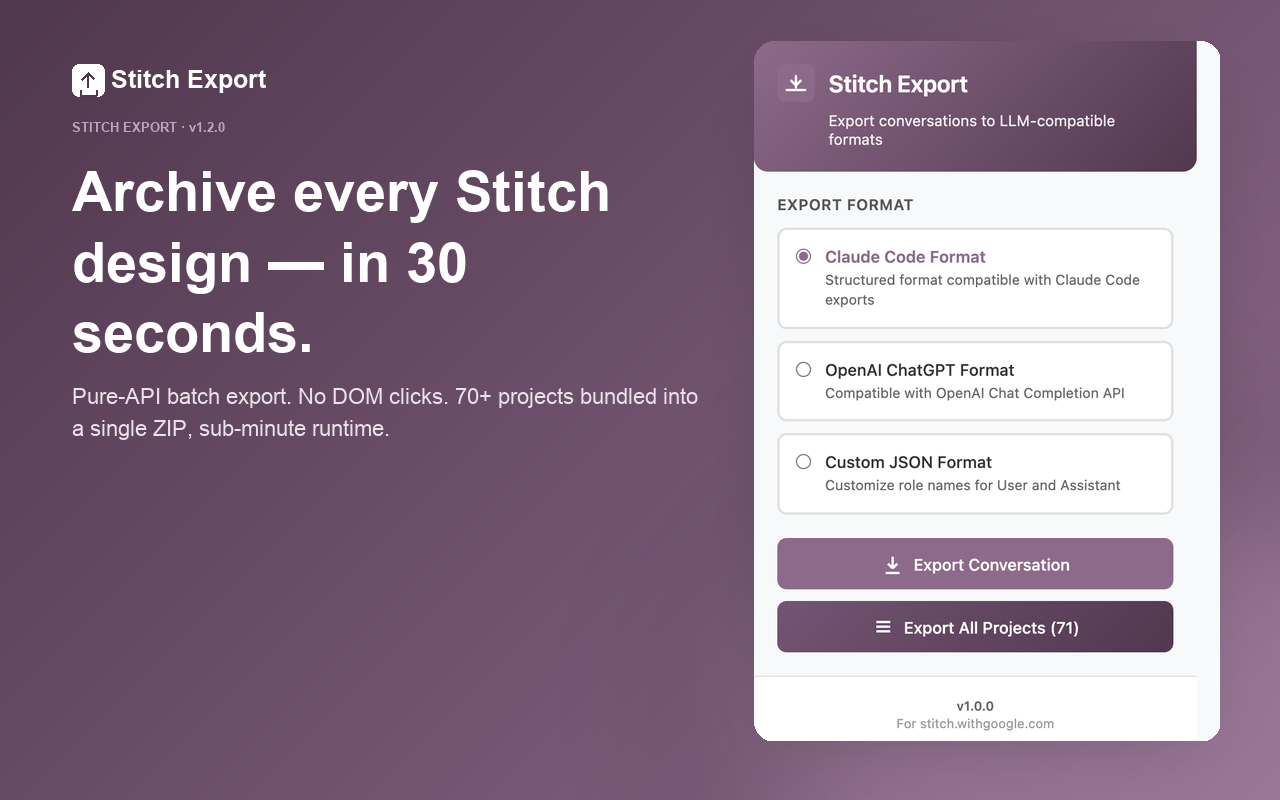
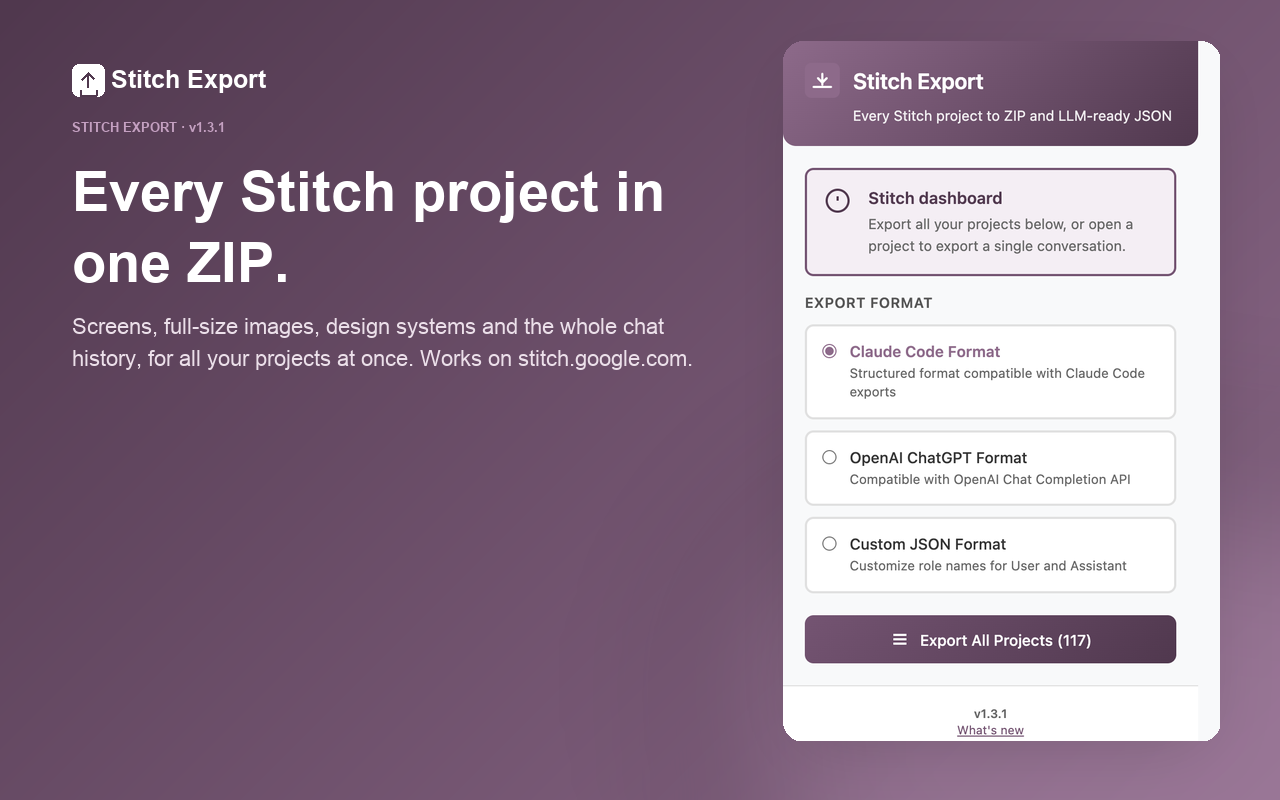
docs(store): fresh screenshots of the 1.3.1 popup; clearer popup subtitle
- capture-puppeteer.js drives the real popup functions (dashboard, project,
  live progress steps 1-3, success, what's new, not on Stitch, custom format)
  and uses the installed Chrome when puppeteer has no bundled browser.
- Store tiles and promos regenerated with the current UI and copy; obsolete
  1.2.0 images removed; README images refreshed.
- Popup subtitle: Every Stitch project to ZIP and LLM-ready JSON.
- Marquee CTA chip rendered white-on-white; now filled.

diff --git a/screenshots/capture-puppeteer.js b/screenshots/capture-puppeteer.js
@@ -18,125 +18,134 @@ const POPUP_HTML = path.join(REPO_ROOT, 'popup', 'popup.html');
 
 /** Stub script injected before popup.js so it doesn't crash on chrome.* APIs. */
 const chromeStub = `
+  // The tab the popup "sees"; each capture sets it before the popup initialises
+  window.__tabUrl = window.__tabUrl || 'https://stitch.google.com/';
+  try { localStorage.setItem('whatsNewSeen', '1.3.1'); } catch (e) {}
   window.chrome = {
     runtime: {
       onMessage: { addListener: () => {} },
       sendMessage: (msg, cb) => {
-        // Default stubs for messages the popup sends on load
-        if (msg && msg.action === 'getBatchExportState') {
-          const r = { isRunning: false, total: 0, current: 0 };
-          if (cb) cb(r); return Promise.resolve(r);
-        }
-        if (msg && msg.action === 'getProjectCount') {
-          const r = { count: 71, cached: true };
-          if (cb) cb(r); return Promise.resolve(r);
-        }
-        if (cb) cb({});
-        return Promise.resolve({});
+        let r = {};
+        if (msg && msg.action === 'getBatchExportState') r = { isRunning: false, total: 0, current: 0 };
+        if (msg && msg.action === 'getProjectCount') r = { count: 117, cached: true };
+        if (cb) cb(r);
+        return Promise.resolve(r);
       },
       getURL: (p) => 'chrome-extension://stub/' + p,
+      getManifest: () => ({ version: '1.3.1' }),
+      requestUpdateCheck: () => Promise.resolve({ status: 'no_update' }),
       lastError: null
     },
     tabs: {
       query: (q, cb) => {
-        const r = [{ id: 1, url: 'https://stitch.withgoogle.com/projects/123', active: true }];
+        const r = [{ id: 1, windowId: 1, url: window.__tabUrl, active: true }];
         if (cb) cb(r); return Promise.resolve(r);
       },
       sendMessage: (id, msg, cb) => { if (cb) cb({}); return Promise.resolve({}); },
-      create: () => Promise.resolve({})
+      create: () => Promise.resolve({}),
+      update: () => Promise.resolve({})
     },
-    scripting: {
-      executeScript: () => Promise.resolve([{ result: { success: false } }])
-    },
+    windows: { update: () => Promise.resolve({}) },
+    scripting: { executeScript: () => Promise.resolve([{ result: { success: false } }]) },
     downloads: { download: () => Promise.resolve(1) }
   };
 `;
 
+const DASHBOARD = 'https://stitch.google.com/';
+const PROJECT = 'https://stitch.google.com/projects/6218260846420484087';
+
+// Each capture: which tab the popup believes it is on, then drive the real popup functions
 const captures = [
   {
-    file: '01-popup-ready-on-stitch.png',
+    file: '01-popup-dashboard.png',
+    url: DASHBOARD,
     setup: async (page) => {
-      // popup.js auto-detects state; force "ready"
       await page.evaluate(() => {
-        document.querySelectorAll('.state').forEach(e => e.classList.add('hidden'));
-        document.getElementById('readyState').classList.remove('hidden');
+        setState(AppState.NOT_ON_STITCH);
+        document.querySelectorAll('.export-all-label').forEach(el => { el.textContent = 'Export All Projects (117)'; });
       });
     }
   },
   {
-    file: '02-popup-custom-format.png',
+    file: '02-popup-project.png',
+    url: PROJECT,
     setup: async (page) => {
       await page.evaluate(() => {
-        document.querySelectorAll('.state').forEach(e => e.classList.add('hidden'));
-        document.getElementById('readyState').classList.remove('hidden');
-        const cs = document.getElementById('customSettings');
-        if (cs) cs.classList.remove('hidden');
-        const customRadio = document.querySelector('input[name="format"][value="custom"]');
-        const claudeRadio = document.querySelector('input[name="format"][value="claude"]');
-        if (claudeRadio) claudeRadio.checked = false;
-        if (customRadio) customRadio.checked = true;
+        setState(AppState.READY);
+        document.querySelectorAll('.export-all-label').forEach(el => { el.textContent = 'Export All Projects (117)'; });
       });
     }
   },
   {
-    file: '03-popup-not-on-stitch.png',
+    file: '03-popup-progress-reading.png',
+    url: DASHBOARD,
     setup: async (page) => {
       await page.evaluate(() => {
-        document.querySelectorAll('.state').forEach(e => e.classList.add('hidden'));
-        document.getElementById('notOnStitchState').classList.remove('hidden');
+        setState(AppState.BATCH_EXPORT);
+        startElapsedClock(Date.now() - 42000);
+        updateBatchProgressUI(71, 117, 'Step 1/3 · Reading projects 71/117: Vagora K19 Milano');
       });
     }
   },
   {
-    file: '04-popup-batch-progress.png',
+    file: '04-popup-progress-opening.png',
+    url: DASHBOARD,
     setup: async (page) => {
       await page.evaluate(() => {
-        document.querySelectorAll('.state').forEach(e => e.classList.add('hidden'));
-        document.getElementById('batchExportState').classList.remove('hidden');
-        const bar = document.getElementById('batchProgressBar');
-        if (bar) bar.style.width = '48%';
-        const txt = document.getElementById('batchProgressText');
-        if (txt) txt.textContent = 'Downloaded 34/71: Xporter Dashboard Command Center (6 files)';
-        const count = document.getElementById('batchProgressCount');
-        if (count) count.textContent = '34 / 71 projects';
+        setState(AppState.BATCH_EXPORT);
+        startElapsedClock(Date.now() - 95000);
+        updateBatchProgressUI(1, 3, 'Step 2/3 · 3 project(s) had not been opened in Stitch for a while. Opening them one by one in a background tab and reading only those again: "Carleria C9" (2/3)...');
       });
     }
   },
   {
-    file: '05-popup-success.png',
+    file: '05-popup-progress-downloading.png',
+    url: DASHBOARD,
     setup: async (page) => {
       await page.evaluate(() => {
-        document.querySelectorAll('.state').forEach(e => e.classList.add('hidden'));
-        document.getElementById('successState').classList.remove('hidden');
-        const msg = document.getElementById('successMessage');
-        if (msg) msg.textContent = 'Successfully exported 71/71 projects to ZIP!';
+        setState(AppState.BATCH_EXPORT);
+        startElapsedClock(Date.now() - 128000);
+        updateBatchProgressUI(88, 117, 'Step 3/3 · Downloading screen files 88/117: IAP kit · Toybox clay (37 files)');
       });
     }
   },
   {
-    file: '06-popup-error.png',
+    file: '06-popup-success.png',
+    url: DASHBOARD,
     setup: async (page) => {
       await page.evaluate(() => {
-        document.querySelectorAll('.state').forEach(e => e.classList.add('hidden'));
-        document.getElementById('errorState').classList.remove('hidden');
-        const msg = document.getElementById('errorMessage');
-        if (msg) msg.textContent = 'No conversation data found. Make sure you are on a Stitch project page with messages.';
+        setState(AppState.SUCCESS);
+        updateSuccessMessage('Successfully exported 117/117 projects to ZIP!');
       });
     }
   },
   {
-    file: '07-popup-loading-counting.png',
+    file: '07-popup-whats-new.png',
+    url: DASHBOARD,
     setup: async (page) => {
-      // Show "counting projects…" inline loading state
       await page.evaluate(() => {
-        document.querySelectorAll('.state').forEach(e => e.classList.add('hidden'));
-        document.getElementById('readyState').classList.remove('hidden');
-        document.querySelectorAll('.export-all-label').forEach(el => {
-          el.classList.add('is-loading');
-        });
-        document.querySelectorAll('.export-all-hint').forEach(el => {
-          el.classList.remove('hidden');
-        });
+        setState(AppState.NOT_ON_STITCH);
+        document.querySelectorAll('.export-all-label').forEach(el => { el.textContent = 'Export All Projects (117)'; });
+        renderWhatsNew();
+      });
+    }
+  },
+  {
+    file: '08-popup-not-on-stitch.png',
+    url: 'https://www.google.com/',
+    setup: async (page) => {
+      await page.evaluate(() => setState(AppState.NOT_ON_STITCH));
+    }
+  },
+  {
+    file: '09-popup-custom-format.png',
+    url: PROJECT,
+    setup: async (page) => {
+      await page.evaluate(() => {
+        setState(AppState.READY);
+        const custom = document.querySelector('input[name="format"][value="custom"]');
+        if (custom) { custom.checked = true; custom.dispatchEvent(new Event('change', { bubbles: true })); }
+        document.getElementById('customSettings')?.classList.remove('hidden');
       });
     }
   }
@@ -147,7 +156,7 @@ async function main() {
   let html = fs.readFileSync(POPUP_HTML, 'utf8');
   const stubTag = `<script>${chromeStub}</script>\n  `;
   // Insert stub right before the popup.js script tag
-  html = html.replace(/<script src="popup\.js"><\/script>/, stubTag + '<script src="popup.js"></script>');
+  html = html.replace('<script src="../utils/remote-config.js"></script>', stubTag + '<script src="../utils/remote-config.js"></script>');
 
   // Write temp HTML alongside popup so relative paths resolve
   const tempHtml = path.join(REPO_ROOT, 'popup', '_capture.html');
@@ -155,16 +164,20 @@ async function main() {
 
   const browser = await puppeteer.launch({
     headless: 'new',
+    // Use the installed Chrome when puppeteer has no bundled browser (PUPPETEER_EXECUTABLE_PATH overrides)
+    executablePath: process.env.PUPPETEER_EXECUTABLE_PATH ||
+      (fs.existsSync('/Applications/Google Chrome.app/Contents/MacOS/Google Chrome') ? '/Applications/Google Chrome.app/Contents/MacOS/Google Chrome' : undefined),
     args: ['--no-sandbox', '--disable-setuid-sandbox']
   });
 
   try {
     for (const c of captures) {
       const page = await browser.newPage();
-      await page.setViewport({ width: 400, height: 600, deviceScaleFactor: 2 });
+      await page.setViewport({ width: 400, height: 640, deviceScaleFactor: 2 });
+      await page.evaluateOnNewDocument((u) => { window.__tabUrl = u; }, c.url);
       await page.goto('file://' + tempHtml, { waitUntil: 'domcontentloaded' });
-      // Give popup.js a moment to run initialize() and stubs to respond
-      await new Promise(r => setTimeout(r, 350));
+      // Let initialize() finish (remote-config check included) before forcing a state
+      await new Promise(r => setTimeout(r, 2500));
       // Force the desired state
       await c.setup(page);
       // Settle layout

diff --git a/popup/popup.html b/popup/popup.html
@@ -18,7 +18,7 @@
         </svg>
         <h1>Stitch Export</h1>
       </div>
-      <p class="subtitle">Export conversations to LLM-compatible formats</p>
+      <p class="subtitle">Every Stitch project to ZIP and LLM-ready JSON</p>
     </header>
 
     <main id="mainContent">

diff --git a/screenshots/gen-store-assets.py b/screenshots/gen-store-assets.py
@@ -168,7 +168,7 @@ def wrap_text(text, font, max_width):
     return lines
 
 
-def compose_screenshot(out_path, headline, body, popup_file, eyebrow="STITCH EXPORT v1.2.0"):
+def compose_screenshot(out_path, headline, body, popup_file, eyebrow="STITCH EXPORT v1.3.1"):
     """1280x800 marketing screenshot — left text, right popup with shadow."""
     W, H = 1280, 800
     bg = gradient(W, H, DEEP, MAUVE, vertical=False)
@@ -259,7 +259,7 @@ def compose_small_promo(out_path):
     draw.text((32, headline_y), headline, font=f_h, fill=WHITE)
 
     body_y = headline_y + 44
-    body = "Batch export + chat history + per-turn refs"
+    body = "Screens, images, design systems + chat"
     draw.text((32, body_y), body, font=f_b, fill=WHITE_DIM)
 
     # Bottom rib
@@ -289,10 +289,10 @@ def compose_marquee(out_path, popup_file):
     draw_wordmark(draw, pad_x, 64, scale=1.0)
 
     f_eye = font(14, bold=True)
-    draw.text((pad_x, 64 + 60), "CHROME EXTENSION · v1.2.0", font=f_eye, fill=MAUVE_LIGHT)
+    draw.text((pad_x, 64 + 60), "CHROME EXTENSION · v1.3.1", font=f_eye, fill=MAUVE_LIGHT)
 
     f_h = font(64, bold=True)
-    headline_lines = ["Archive every Stitch design", "in 30 seconds."]
+    headline_lines = ["Every Stitch project,", "in one ZIP."]
     y = 64 + 100
     for line in headline_lines:
         draw.text((pad_x, y), line, font=f_h, fill=WHITE)
@@ -300,7 +300,7 @@ def compose_marquee(out_path, popup_file):
         y += (bbox[3] - bbox[1]) + 16
 
     f_b = font(20)
-    body = "Pure-API batch export · per-turn chat history · toolbar count badge"
+    body = "Screens · full-size images · design systems · chat history · Claude & ChatGPT JSON"
     draw.text((pad_x, y + 12), body, font=f_b, fill=WHITE_DIM)
 
     # CTA chip
@@ -313,7 +313,7 @@ def compose_marquee(out_path, popup_file):
     draw.rounded_rectangle(
         (pad_x, chip_y, pad_x + chip_w, chip_y + chip_h),
         radius=22,
-        fill=(255, 255, 255, 30),
+        fill=DEEP,
         outline=MAUVE_LIGHT,
         width=1,
     )
@@ -343,38 +343,38 @@ def main():
     shots = [
         {
             "out": "screenshot-01-overview.png",
-            "popup": "01-popup-ready-on-stitch.png",
-            "eyebrow": "STITCH EXPORT · v1.2.0",
-            "headline": "Archive every Stitch design — in 30 seconds.",
-            "body": "Pure-API batch export. No DOM clicks. 70+ projects bundled into a single ZIP, sub-minute runtime.",
+            "popup": "01-popup-dashboard.png",
+            "eyebrow": "STITCH EXPORT · v1.3.1",
+            "headline": "Every Stitch project in one ZIP.",
+            "body": "Screens, full-size images, design systems and the whole chat history, for all your projects at once. Works on stitch.google.com.",
         },
         {
-            "out": "screenshot-02-batch-progress.png",
-            "popup": "04-popup-batch-progress.png",
-            "eyebrow": "BATCH EXPORT",
-            "headline": "Parallel by design.",
-            "body": "10 concurrent API calls + 6 parallel HTML downloads. Watch every project tick by in real time.",
+            "out": "screenshot-02-reading.png",
+            "popup": "03-popup-progress-reading.png",
+            "eyebrow": "STEP 1 OF 3 · READING",
+            "headline": "Watch it read every project.",
+            "body": "Live progress project by project, a moving bar and a clock. Close the popup any time; the export keeps running in the background.",
         },
         {
-            "out": "screenshot-03-toolbar-badge.png",
-            "popup": "07-popup-loading-counting.png",
-            "eyebrow": "TOOLBAR BADGE",
-            "headline": "Live project count, always visible.",
-            "body": "Mauve badge on the dashboard shows how many Stitch projects you have. EXP reminder on every project page.",
+            "out": "screenshot-03-nothing-skipped.png",
+            "popup": "04-popup-progress-opening.png",
+            "eyebrow": "STEP 2 OF 3 · NOTHING SKIPPED",
+            "headline": "No project comes back empty.",
+            "body": "Projects Stitch has not opened for a while are opened in a background tab and read again. Anything still missing is listed in export-report.json.",
         },
         {
-            "out": "screenshot-04-success.png",
-            "popup": "05-popup-success.png",
-            "eyebrow": "ONE ZIP",
-            "headline": "Final designs + full history.",
-            "body": "screens/ for the current state. history/turn-NNN/ for every design generated in each conversation turn.",
+            "out": "screenshot-04-project-zip.png",
+            "popup": "02-popup-project.png",
+            "eyebrow": "ONE PROJECT",
+            "headline": "Export just the project you are on.",
+            "body": "One ZIP with every screen, a full-size picture of each, design systems and the conversation. Works with several Google accounts.",
         },
         {
             "out": "screenshot-05-formats.png",
-            "popup": "02-popup-custom-format.png",
-            "eyebrow": "EXPORT FORMATS",
+            "popup": "09-popup-custom-format.png",
+            "eyebrow": "LLM-READY",
             "headline": "Claude · ChatGPT · custom roles.",
-            "body": "JSON output drops straight into any LLM. Configure user/assistant role names yourself for custom pipelines.",
+            "body": "Every ZIP includes the chat in your chosen format, ready for another model. Rename the user and assistant roles for your own pipeline.",
         },
     ]
     for s in shots:
@@ -388,7 +388,7 @@ def main():
 
     # Promo tiles
     compose_small_promo(OUT / "promo-small-440x280.png")
-    compose_marquee(OUT / "promo-marquee-1400x560.png", POPUP / "01-popup-ready-on-stitch.png")
+    compose_marquee(OUT / "promo-marquee-1400x560.png", POPUP / "01-popup-dashboard.png")
 
     print(f"\nOutput dir: {OUT.relative_to(ROOT)}")
 

diff --git a/README.md b/README.md
@@ -35,7 +35,7 @@
 - **Local-only** — talks only to Google's own Stitch endpoints from your logged-in tab; no servers,
   no analytics.
 
-![Batch export — 10 parallel API calls, 6 parallel downloads](assets/batch-export.png)
+![Live progress while every project is read](assets/batch-export.png)
 
 ## Installation
 
@@ -55,7 +55,7 @@ Works in Chrome and Chromium browsers that install Chrome Web Store extensions (
 
 ### Export every project
 
-![Live project count on the toolbar](assets/toolbar-badge.png)
+![Export every project from the Stitch dashboard](assets/toolbar-badge.png)
 
 1. Open [stitch.withgoogle.com](https://stitch.withgoogle.com) and click the Stitch Export icon
 2. Pick a format and click **Export All Projects (NN)**
